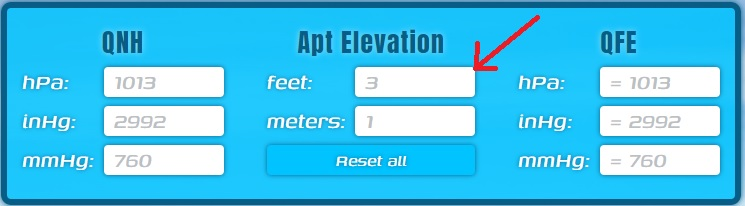
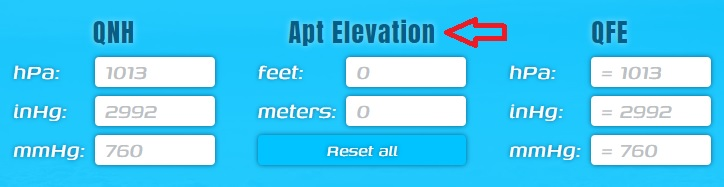
change link to readme

diff --git a/src/assets/components/InputBoxes/InputBoxElevation.jsx b/src/assets/components/InputBoxes/InputBoxElevation.jsx
@@ -17,14 +17,14 @@ const InputBoxElevation = (props) => {
             <InputItem
                 id={"feet"}
                 label={"feet"}
-                placeholder="3"
+                placeholder="0"
                 onChange={getValueFromFeet}
                 unit={ft}
             />
             <InputItem
                 id={"meters"}
                 label={"meters"}
-                placeholder="1"
+                placeholder="0"
                 onChange={getValueFromMeters}
                 unit={m}
             />

diff --git a/src/assets/components/Footer/Footer.sass b/src/assets/components/Footer/Footer.sass
@@ -23,11 +23,14 @@ $FooterBg: #075d86c4
         font: 400 normal .75rem $Roboto
         @media (max-width: 550px )
             justify-content: flex-end
+        @media (max-width: 375px )
+            font: 400 normal .7rem $Roboto
     &__link
         display: flex
         &-icon
             width: 1.5rem
-
+        @media (max-width: 375px )
+            width: 1.5rem
 .vk
     flex: 50%
     @media (max-width: 550px )

diff --git a/src/assets/components/Footer/Footer.jsx b/src/assets/components/Footer/Footer.jsx
@@ -19,7 +19,7 @@ const footerAttrs = [
     {
         classAddress: "footer__address vk",
         title: "Manual on github:",
-        href: "https://github.com/souldrum/QnhToQfe_React#readme",
+        href: "https://github.com/souldrum/QnhToQfe_Calculator#readme",
         alt: "github",
         src: "https://img.icons8.com/color/48/000000/github--v1.png",
     },

diff --git a/src/assets/components/Header/Header.sass b/src/assets/components/Header/Header.sass
@@ -13,3 +13,5 @@ $TextShadow: #478cc6
         letter-spacing: .05em
         @media (max-width: 768px)
             font: 1rem/1.5 $Anton
+        @media (max-width: 375px)
+            font: .75rem/1.5 $Anton

diff --git a/src/index.sass b/src/index.sass
@@ -7,8 +7,6 @@ $Roboto: 'Roboto', sans-serif
 html
     font-size: 20px
     font-family: $Anton
-    @media (max-width: 350px)
-        font-size: 15px
 
 *,
 *::before,
